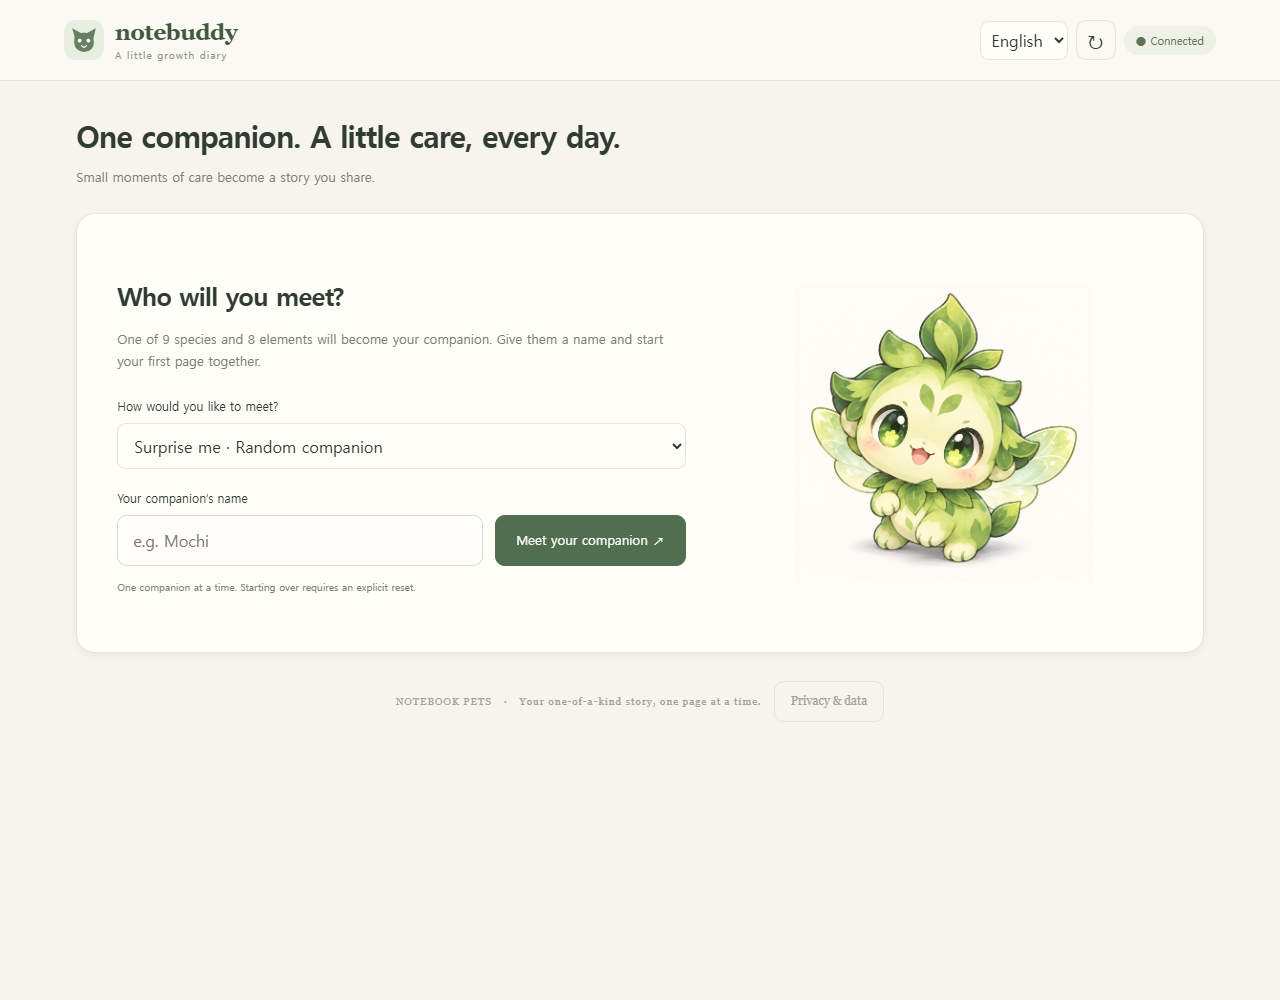
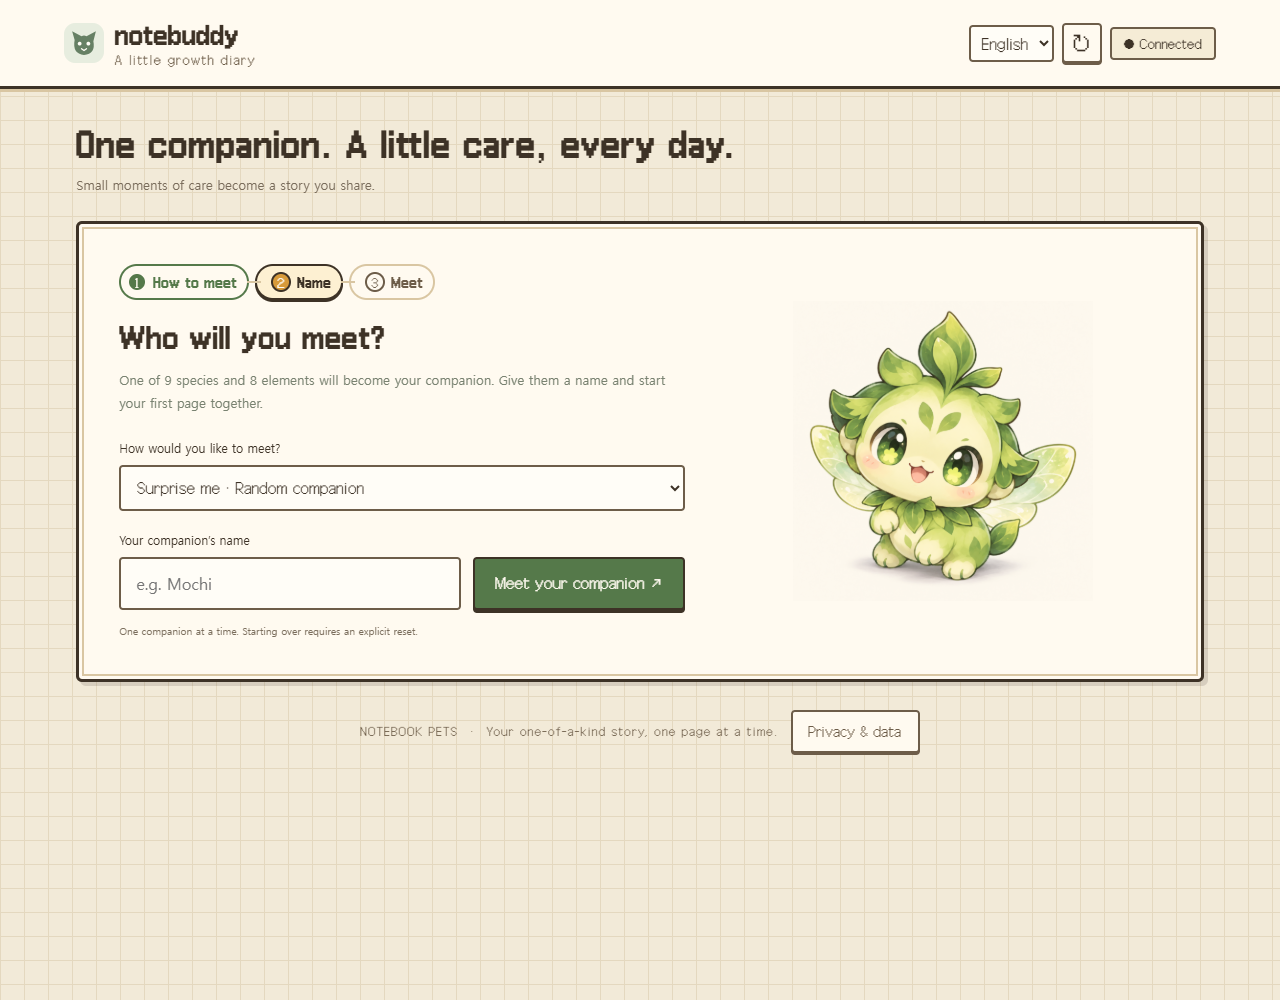
store: 1.0.0 listing text and seven screenshots of the notebook UI
Adds title and item book captures, serves the bundled font during capture, awaits only visible images and checks the recorded reference hash plus a pixel comparison of the editor redraw.

diff --git a/anna/store/README.md b/anna/store/README.md
@@ -1,17 +1,19 @@
-# Store screenshots — 0.8.1
+# Store screenshots — 1.0.0
 
-Captured on **2026-10-14** from the unchanged 0.8.1 UI bundle, using isolated views produced by the actual Python game worker. The featured companion **Mori** is the actual Anna-generated result of the original sprout doodle shown in the editor. The first listing image is the completed companion, followed by its reference drawing, album, dungeon and welcome screen. The screenshots are browser captures, not generated UI mockups.
+Captured on **2026-10-14** from the 1.0.0 UI bundle, using isolated views produced by the actual Python game worker. The featured companion **Mori** is the actual Anna-generated result of the original sprout doodle shown in the editor. The screenshots are browser captures, not generated UI mockups. Listing order:
 
-- `01-first-meeting.png`: first meeting and random/drawing/photo selection, 1280 × 1000.
-- `02-companion-and-care.png`: **Mori after drawing → Anna analysis → portrait generation**, conversation area and care controls, 1280 × 1000. This is the first image in the listing.
-- `03-care-and-album.png`: daily quests, growth album and pixel preparation, 1280 × 850.
-- `04-draw-your-companion.png`: the same sprout reference entered through the real drawing editor's pointer controls, 1280 × 1000.
-- `05-pixel-dungeon.png`: actual discovered-dungeon preview and the current companion's pixel silhouette, 1280 × 900. Entry is not pressed.
+1. `02-companion-and-care.png`: **Mori after drawing → Anna analysis → portrait generation**, conversation area and care controls in the notebook theme, 1280 × 1000.
+2. `00-title.png`: the title screen shown on every load, with the bundled starter portraits, 1280 × 900.
+3. `04-draw-your-companion.png`: the same sprout reference entered through the real drawing editor's pointer controls, 1280 × 1000.
+4. `05-pixel-dungeon.png`: actual discovered-dungeon preview and the current companion's pixel silhouette, 1280 × 900. Entry is not pressed.
+5. `06-item-book.png`: the item book preview with its Items / Growth album tabs, opened from Mori's home, 1280 × 1000.
+6. `03-care-and-album.png`: daily quests, growth album, pixel appearance and the item book entry, 1280 × 850.
+7. `01-first-meeting.png`: the new-companion form with its three-step guide, 1280 × 1000.
 
 `demo/reference.png` was drawn with `scripts/store_drawing.mjs`. The unmodified app functions `checkArtwork` and `birthPrompt` supplied the normal analysis and generation requests to Anna. Anna returned **plant / nature**, the portrait in `demo/portrait.png`, and a personality using the unchanged `personalityPrompt`/`parsePersonality` flow. Preparation used **three Anna AI calls**: one analysis, one image generation, one personality initialization. `demo/provenance.json` records their results and image hashes, without credentials or signed URLs. The pixel portrait is the existing app's local conversion of this same generated portrait.
 
 `scripts/store_fixture.py` creates disposable games with those analyzed birth traits, commits the real generated personality through the engine, and performs walk commands until a dungeon is discovered. Game values are not manually edited. `scripts/capture_store.mjs` serves the shipped files in a network-isolated browser with read-only host responses and the recorded art. Capture makes **no additional AI calls or production storage calls**, and no real user's data is changed. Chat is empty; no conversation is fabricated. These captures do not certify native installation or production persistence.
 
-Reproduce from `anna/` with `node scripts/capture_store.mjs` after preparing the existing assets and dependencies. This reuses the recorded Anna outputs, checks the source and result hashes, and refuses a starter-image fallback. The randomly discovered dungeon may differ on a recapture. All five images were visually checked before metadata synchronization. `app.json` references the local files in display order; Anna CLI uploads them through the official listing screenshot API.
+Reproduce from `anna/` with `node scripts/capture_store.mjs` after preparing the existing assets and dependencies. This reuses the recorded Anna outputs, checks the recorded reference and portrait hashes, and refuses a starter-image fallback. The editor redraw is compared with the analyzed reference pixel by pixel (at most 2% of inked pixels may differ, since the editor's on-screen layout can shift stroke rasterization); the 1.0.0 capture differed on 0.0%. The randomly discovered dungeon may differ on a recapture. All seven images were visually checked before metadata synchronization. `app.json` references the local files in display order; Anna CLI uploads them through the official listing screenshot API.
 
-The first 0.8.1 screenshot set showed a random starter and an unrelated sketch; this revision replaces them with the same original drawing and its actual generated companion. Installed-runtime and persistence verification are recorded separately in [0.8.1 release notes](../RELEASE_081.md).
+Earlier sets: the 0.8.1 listing used five captures of the previous UI; installed-runtime verification for each version is recorded in its release notes.
